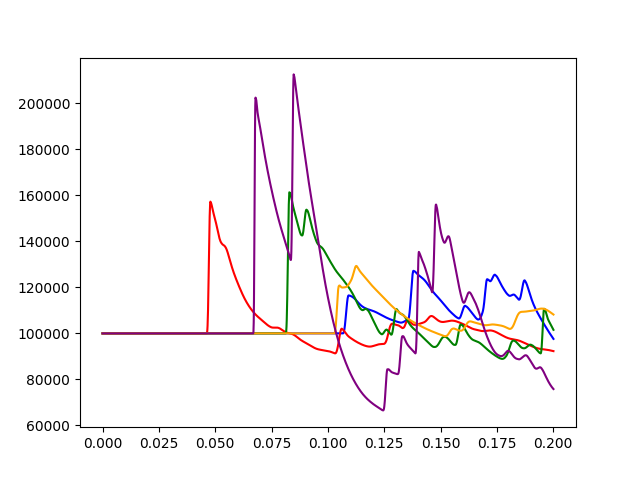
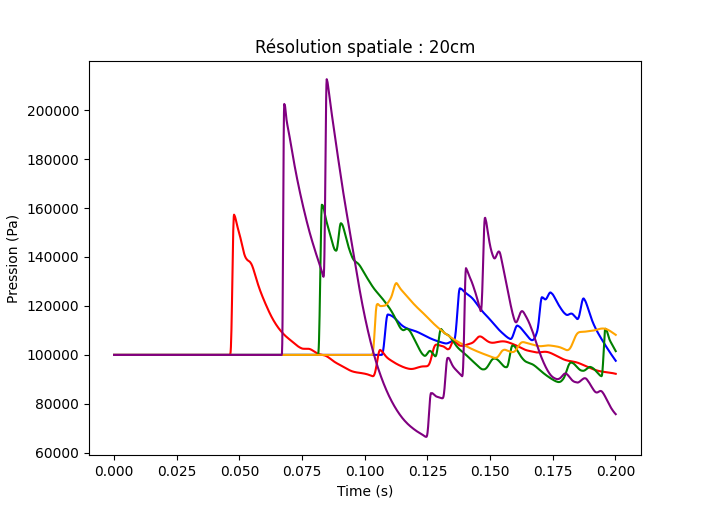
data plots with titles

diff --git a/plot_multi_data.py b/plot_multi_data.py
@@ -7,6 +7,7 @@ COLORS = ['blue','red','green','orange','purple','grey']
 parser = argparse.ArgumentParser(description="retrieve file name")
 
 parser.add_argument("--folder", help="Folder where station data is to be read", required=True)
+parser.add_argument("--title", help="Graph title", required=False)
 
 args = parser.parse_args()
 
@@ -38,6 +39,7 @@ for i in range(nb_stations):
     plt.plot(data_t[i], data_sign[i], color=COLORS[i])
 plt.xlabel("Time (s)")
 plt.ylabel("Pression (Pa)")
+plt.title(args.title)
 plt.show()
 
 
